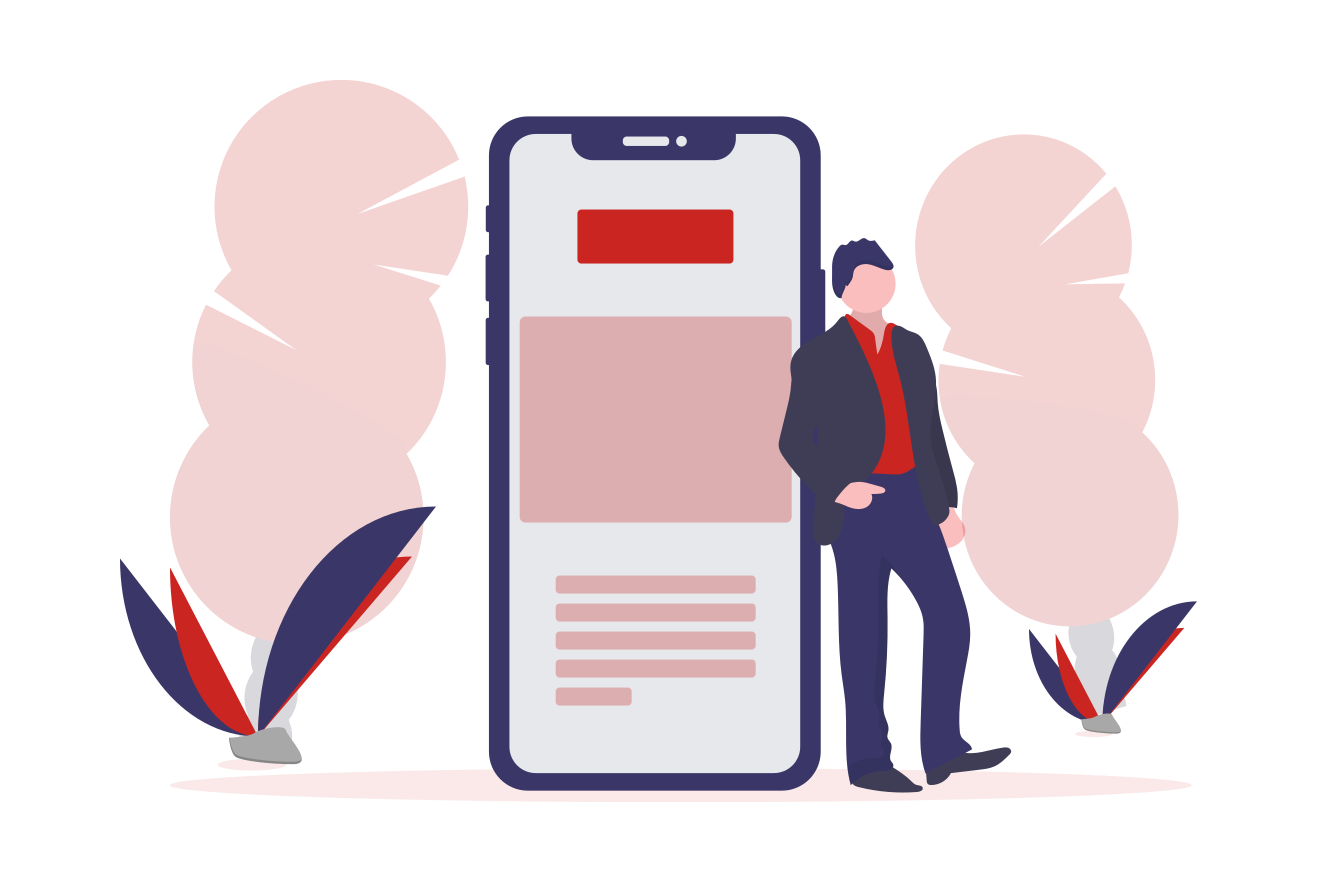
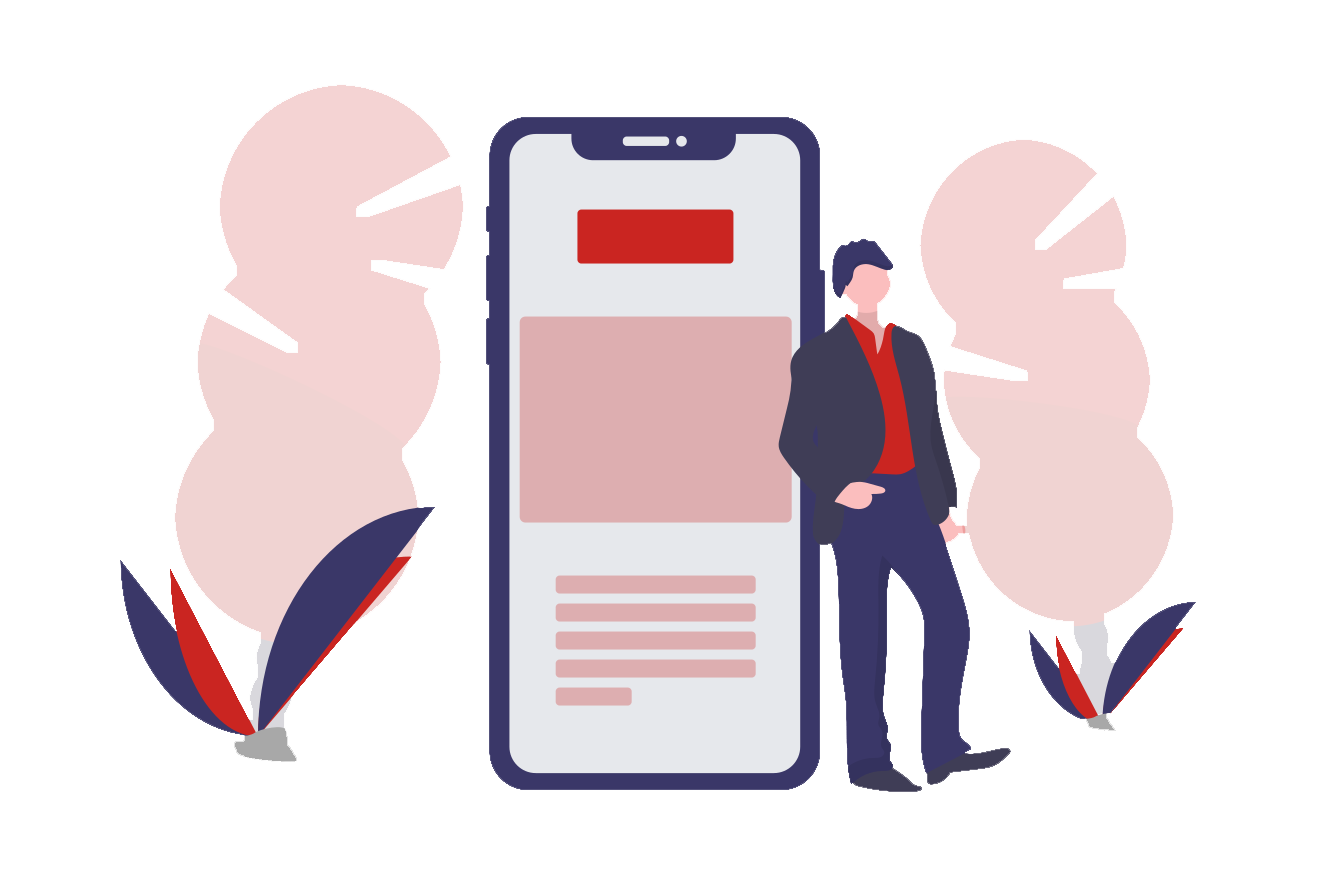
viewport

diff --git a/css/Style.css b/css/Style.css
@@ -192,7 +192,7 @@ main .blog-content .blog-title{
 /* --------------- Site title ---------------- */
 
 .site-title{
-    background: url('../assets/background.png');
+    background: url('../assets/background5.png');
     background-position: right;
     margin-right: -5vh;
     background-size: 73%;
@@ -580,9 +580,46 @@ footer.footer .move-up span:hover{
     .site-title .site-background{
         margin-top: 22vh;
     }
+
 }
 
 /*      x       Viewport less then or equal to 1130px    x     */
+
+/*              Viewport less then or equal to 768px            */
+
+@media only screen and (max-width: 768px){
+    .nav .nav-menu, .nav .nav-items{
+        flex-direction: column;
+    }
+
+    .nav .toggle-collapse{
+        display: initial;
+    }
+
+    main .site-content{
+        grid-template-columns: 100%;
+        margin-top: -40vh;
+
+    }
+
+    footer.footer .container{
+        grid-template-columns: repeat(1, 1fr);
+    }
+
+    .site-title{
+        background-position: top 45vh left 13vh;
+        background-size: 62%;
+    }
+
+    .site-title .site-background{
+        margin-top: 5vh;
+        margin-left: 17vh;
+    }
+
+}
+
+/*        x      Viewport less then or equal to 768px       x     */
+
 
 /*              Viewport less then or equal to 750px            */
 
@@ -629,7 +666,7 @@ footer.footer .move-up span:hover{
  
     main .site-content{
         grid-template-columns: 100%;
-        margin-top: -15vh;
+        margin-top: -25vh;
 
     }
 
@@ -669,13 +706,59 @@ footer.footer .move-up span:hover{
 
 /*        x      Viewport less then or equal to 520px       x     */
 
+/*              Viewport less then or equal to 414px            */
+
+@media only screen and (max-width: 414px){
+ 
+    main .site-content{
+        grid-template-columns: 100%;
+        margin-top: -13vh;
+
+    }
+
+    .site-content .post-content > .post-image .post-info{
+        display: none;
+    }
+
+    footer.footer .container > div{
+        padding:  1rem .9rem !important;
+    }
+
+    footer .rights{
+        padding: 0 1.4rem;
+        text-align: center;
+    }
+
+    nav .toggle-collapse{
+        width: 80% !important;
+    }
+
+    .site-title{
+        margin-left: auto;
+        margin-right: auto;
+        background-position: top 45vh center;
+        background-size: 80%;
+        margin-top: 5vh;
+    }
+
+    .site-title .site-background{
+        margin-left: auto;
+        margin-right: auto;
+       
+
+    }
+    
+}
+
+/*        x      Viewport less then or equal to 414px       x     */
+
 /*              Viewport less then or equal to 375px            */
 
 @media only screen and (max-width: 375px){
  
     main .site-content{
         grid-template-columns: 100%;
-        margin-top: -20vh;
+        margin-top: -25vh;
 
     }
 
@@ -701,7 +784,7 @@ footer.footer .move-up span:hover{
         margin-right: auto;
         background-position: top 50vh center;
         background-size: 95%;
-        margin-top: 5vh;
+        margin-top: 1vh;
     }
 
     .site-title .site-background{
@@ -716,3 +799,50 @@ footer.footer .move-up span:hover{
 }
 
 /*        x      Viewport less then or equal to 375px       x     */
+
+/*              Viewport less then or equal to 320px            */
+
+@media only screen and (max-width: 320px){
+ 
+    main .site-content{
+        grid-template-columns: 100%;
+        margin-top: 0vh;
+
+    }
+
+    .site-content .post-content > .post-image .post-info{
+        display: none;
+    }
+
+    footer.footer .container > div{
+        padding:  1rem .9rem !important;
+    }
+
+    footer .rights{
+        padding: 0 1.4rem;
+        text-align: center;
+    }
+
+    nav .toggle-collapse{
+        width: 80% !important;
+    }
+
+    .site-title{
+        margin-left: auto;
+        margin-right: auto;
+        background-position: top 50vh center;
+        background-size: 95%;
+        margin-top: 1vh;
+    }
+
+    .site-title .site-background{
+        margin-left: auto;
+        margin-right: auto;
+    }
+    
+    .important{
+        display: none;
+    }
+}
+
+/*        x      Viewport less then or equal to 320px       x     */

diff --git a/index.html b/index.html
@@ -81,14 +81,14 @@
         <section class="site-title">
     
             <div class="site-background" data-aos="fade-up" data-aos-delay="50">
-                
+ 
                 <h3 style="color:black">Impartial Truth Beyond Words</h3> 
                 <h1 style="color:black">YRAGA / AMUDYONG</h1>
                 <button class="btn">Explore »</button>
-                <p style="color:black" font-size="100"> &nbsp; &nbsp; &nbsp; The official website of 
-                    the Yraga / Amudyong School<br>
-                    &nbsp; Publication of the USANT Junior High School Department.
-                </p>
+                <p class="important" style="color:black" font-size="100" > &nbsp; &nbsp; &nbsp; &nbsp;
+                    The official website of the Yraga / Amudyong School </p>
+                <p class="important" style="color: black" font-size="100">&nbsp; &nbsp; Publication 
+                    of the USANT Junior High School Department. </p>
                   
             </div>
 
